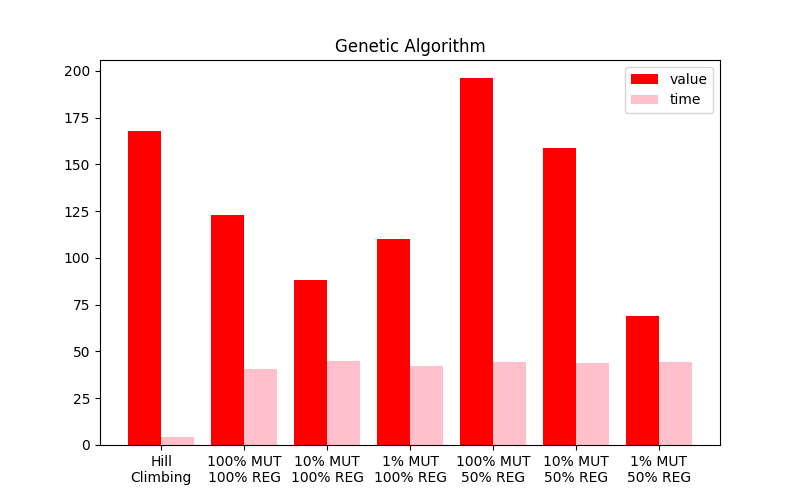
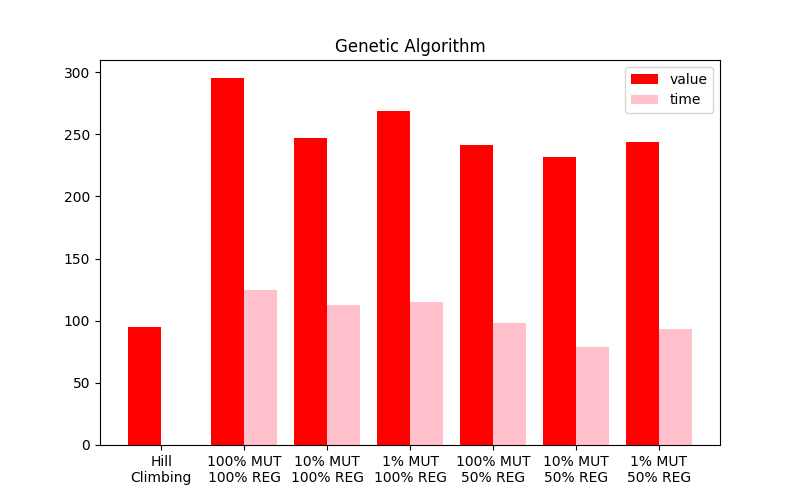
Plotting genetic

diff --git a/graphs.py b/graphs.py
@@ -1,29 +1,97 @@
+import sys
 from matplotlib import pyplot
-from solution import randomSolution
-from read import readDataCenter
-from neighbourhood import Neighbourhood
-from hillClimbing import hillClimbing
-from simAnnealing import simulatedAnnealing
+from src.solution.evaluation import evaluate_solution
+from src.algorithms.genetic import genetic
+from src.neighbourhood.neighbourhood import Neighbourhood
+from src.solution.data_center import Solution
+from src.solution.solution import random_solution
+
+import numpy as np 
+import time
+
+from multiprocessing import Process as worker, Queue
 
 
-config = readDataCenter('problem.txt')
-initial_solution = randomSolution(config)
-neighbourModes = [Neighbourhood.ADD_SV,Neighbourhood.RMV_SV,Neighbourhood.SWTCH_SV_POOL, Neighbourhood.MOV_SV_SLOT, Neighbourhood.SWTCH_SV_ROW, Neighbourhood.SWTCH_SV_POOL]
-iter = 100
-x_axis = list(range(1, iter))
+def timed_genetic(data_center, iterations, neighbour_modes, initial_solution, population_size, mutation_chance, replaced_each_generation, i, res):
+    print("Starting Genetic nº", i)
+    sol_GA = [0,0]
+    start_time = time.time()
+    temp_GA, _ = genetic(data_center, iterations, neighbour_modes, initial_solution, population_size, mutation_chance, replaced_each_generation)
+    sol_GA[0] += evaluate_solution(temp_GA,data_center)
+    sol_GA[1] += time.time()-start_time
+    print("Finished Genetic nº", i)
+    res.put([sol_GA, i])
 
-temp = 150
+def plot_genetic(data_center, iterations, neighbour_modes):
+    runs = 1
+    initial_solution = random_solution(data_center)
+    ga_values = [[0,0] for x in range(7)]
 
+    sol_HC = [0,0]
+    start_time = time.time()
+    temp_HC, _ = hill_climbing(data_center, iterations, neighbour_modes, initial_solution)
+    sol_HC[0] = evaluate_solution(temp_HC,data_center)
+    sol_HC[1] = time.time()-start_time
+    ga_values[0] = sol_HC
 
-sol_AS, y_axis_AS  = simulatedAnnealing(config, iter, neighbourModes, temp, 'linear', initial_solution)
+    population_size = 80
+    threads = []
 
+    iterations = iterations
 
-sol_HC, y_axis_HC = hillClimbing(config, iter, neighbourModes,initial_solution)
+    res = Queue()
 
-pyplot.plot(x_axis, y_axis_AS)
-pyplot.plot(x_axis, y_axis_HC, color = 'red')
-pyplot.ylabel('Evaluation')
-pyplot.xlabel('Iteration')
-pyplot.show()
+    process = worker(target=timed_genetic, args=(data_center, iterations,neighbour_modes, initial_solution, population_size, 1, 1,1,res))
+    process.start()
+    threads.append(process)
+
+    process = worker(target=timed_genetic, args=(data_center, iterations,neighbour_modes, initial_solution, population_size, 0.1, 1,2,res))
+    process.start()
+    threads.append(process)
+
+    process = worker(target=timed_genetic, args=(data_center, iterations,neighbour_modes, initial_solution, population_size, 0.01, 1,3,res))
+    process.start()
+    threads.append(process)
+
+    process = worker(target=timed_genetic, args=(data_center, iterations,neighbour_modes, initial_solution, population_size, 1, 0.5,4,res))
+    process.start()
+    threads.append(process)
+
+    process = worker(target=timed_genetic, args=(data_center, iterations,neighbour_modes, initial_solution, population_size, 0.1, 0.5,5,res))
+    process.start()
+    threads.append(process)
+
+    process = worker(target=timed_genetic, args=(data_center, iterations,neighbour_modes, initial_solution, population_size, 0.01, 0.5,6,res))
+    process.start()
+    threads.append(process)
+
+    # We now pause execution on the main thread by 'joining' all of our started threads.
+    # This ensures that each has finished processing the urls.
+    for process in threads:
+        sol, i = res.get()
+        ga_values[i] = sol
+        process.join()
+
+    print(ga_values)
+    evaluations = [v[0]/runs for v in ga_values]
+    times = [v[1]/runs for v in ga_values]
+    algorithms = ["Hill\nClimbing", 
+    "100% MUT\n100% REG",
+    '10% MUT\n100% REG',
+    '1% MUT\n100% REG',    
+    "100% MUT\n50% REG",
+    '10% MUT\n50% REG',
+    '1% MUT\n50% REG']
+
+    x_axis = np.arange(len(algorithms))
+    pyplot.figure(figsize=(8, 5))
+    pyplot.bar(x_axis - 0.2, evaluations,width=0.4,color='red', label='value')
+    pyplot.bar(x_axis + 0.2, times,width=0.4, color = 'pink', label='time')
+    pyplot.legend()
+    pyplot.xticks(x_axis, algorithms)
+    pyplot.title('Genetic Algorithm')
+    pyplot.savefig('plots/genetic.png')
+    pyplot.show()
+
 
 

diff --git a/main.py b/main.py
@@ -1,5 +1,6 @@
 import sys
 from matplotlib import pyplot
+from graphs import plot_genetic
 from src.solution.evaluation import evaluate_solution
 from src.algorithms.genetic import genetic
 from src.algorithms.hill_climbing import hill_climbing
@@ -11,85 +12,9 @@ from src.solution.solution import random_solution
 
 import numpy as np 
 import time
-from threading import Thread
 
-ga_values = [[0,0] for x in range(7)]
+from multiprocessing import Process as worker, Queue
 
-def timed_genetic(data_center, iterations, neighbour_modes, initial_solution, population_size, mutation_chance, replaced_each_generation, i):
-    print("Starting Genetic nº", i)
-    sol_GA = [0,0]
-    start_time = time.time()
-    temp_GA, _ = genetic(data_center, iterations, neighbour_modes, initial_solution, population_size, mutation_chance, replaced_each_generation)
-    sol_GA[0] += evaluate_solution(temp_GA,data_center)
-    sol_GA[1] += time.time()-start_time
-    ga_values[i] = sol_GA
-    print("Finished Genetic", i)
-
-def plot_genetic(data_center, iterations, neighbour_modes):
-    runs = 1
-    initial_solution = random_solution(data_center)
-
-    sol_HC = [0,0]
-    start_time = time.time()
-    temp_HC, _ = hill_climbing(data_center, iterations, neighbour_modes, initial_solution)
-    sol_HC[0] = evaluate_solution(temp_HC,data_center)
-    sol_HC[1] = time.time()-start_time
-    ga_values[0] = sol_HC
-
-    population_size = 80
-    threads = []
-
-    iterations = iterations
-
-    process = Thread(target=timed_genetic, args=[data_center, iterations,neighbour_modes, initial_solution, population_size, 1, 1,1])
-    process.start()
-    threads.append(process)
-
-    process = Thread(target=timed_genetic, args=[data_center, iterations,neighbour_modes, initial_solution, population_size, 0.1, 1,2])
-    process.start()
-    threads.append(process)
-
-    process = Thread(target=timed_genetic, args=[data_center, iterations,neighbour_modes, initial_solution, population_size, 0.01, 1,3])
-    process.start()
-    threads.append(process)
-
-    process = Thread(target=timed_genetic, args=[data_center, iterations,neighbour_modes, initial_solution, population_size, 1, 0.5,4])
-    process.start()
-    threads.append(process)
-
-    process = Thread(target=timed_genetic, args=[data_center, iterations,neighbour_modes, initial_solution, population_size, 0.1, 0.5,5])
-    process.start()
-    threads.append(process)
-
-    process = Thread(target=timed_genetic, args=[data_center, iterations,neighbour_modes, initial_solution, population_size, 0.01, 0.5,6])
-    process.start()
-    threads.append(process)
-
-    # We now pause execution on the main thread by 'joining' all of our started threads.
-    # This ensures that each has finished processing the urls.
-    for process in threads:
-        process.join()
-
-    print(ga_values)
-    evaluations = [v[0]/runs for v in ga_values]
-    times = [v[1]/runs for v in ga_values]
-    algorithms = ["Hill\nClimbing", 
-    "100% MUT\n100% REG",
-    '10% MUT\n100% REG',
-    '1% MUT\n100% REG',    
-    "100% MUT\n50% REG",
-    '10% MUT\n50% REG',
-    '1% MUT\n50% REG']
-
-    x_axis = np.arange(len(algorithms))
-    pyplot.figure(figsize=(8, 5))
-    pyplot.bar(x_axis - 0.2, evaluations,width=0.4,color='red', label='value')
-    pyplot.bar(x_axis + 0.2, times,width=0.4, color = 'pink', label='time')
-    pyplot.legend()
-    pyplot.xticks(x_axis, algorithms)
-    pyplot.title('Genetic Algorithm')
-    pyplot.savefig('plots/genetic.png')
-    pyplot.show()
 
 
 if __name__ == '__main__':

diff --git a/README.md b/README.md
@@ -3,3 +3,4 @@
 # References
 Python Data Classes: https://docs.python.org/3/library/dataclasses.html
 Python Enum: https://docs.python.org/3/library/enum.html
+Python Multiprocessing: https://docs.python.org/3/library/multiprocessing.html
